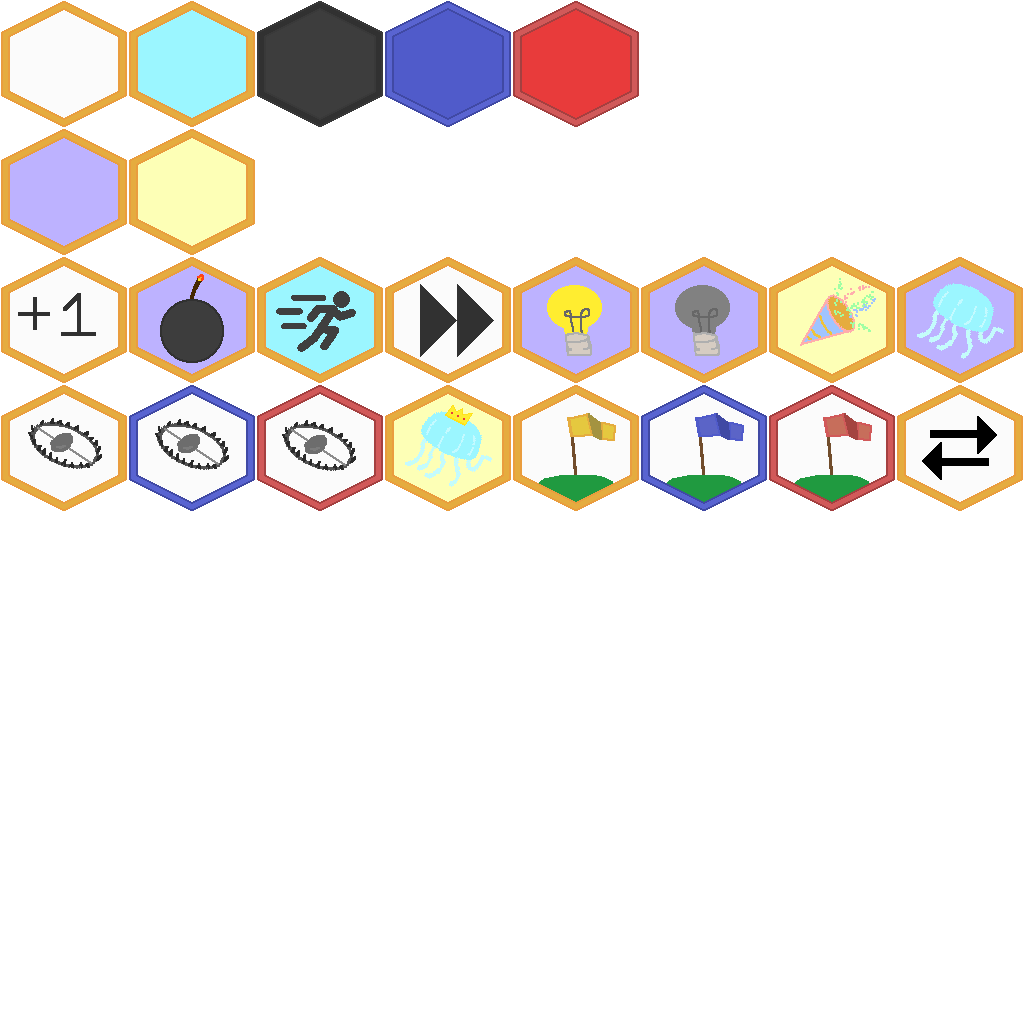
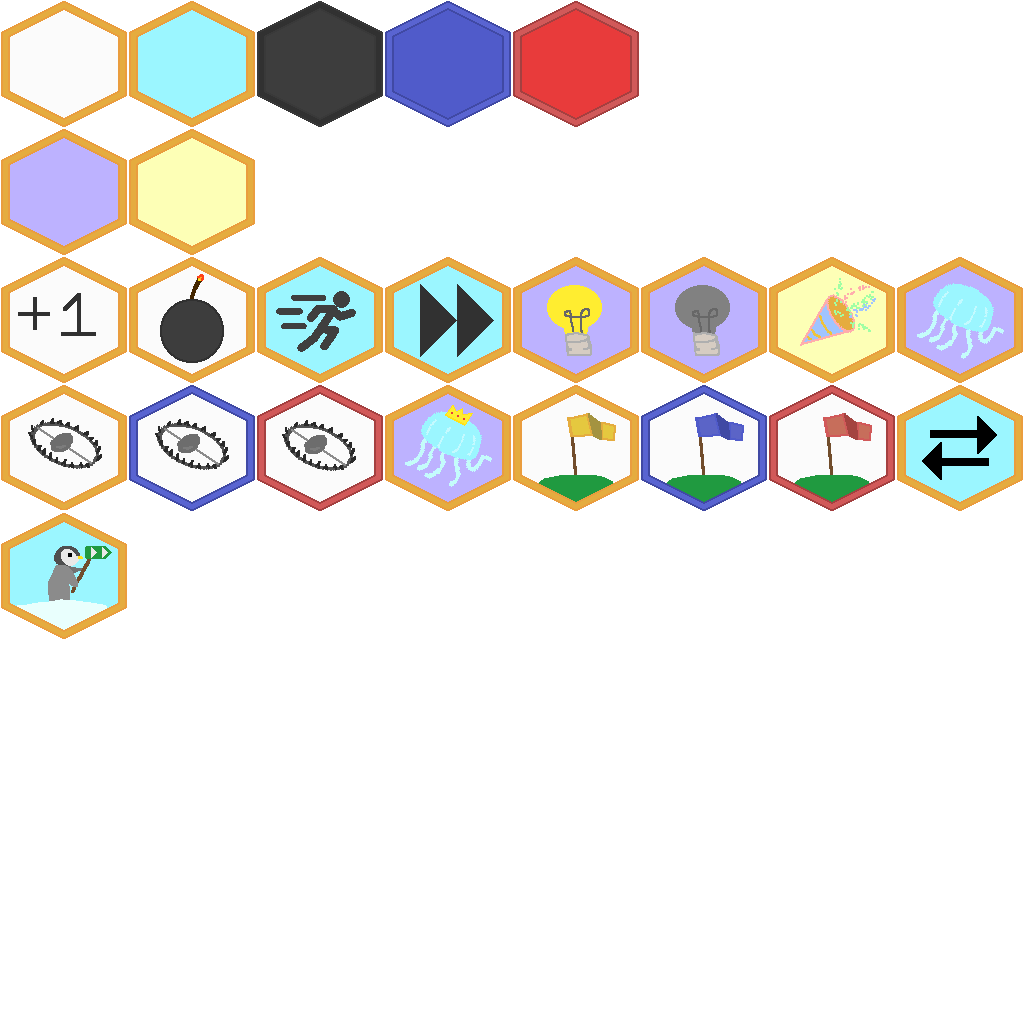
changed some sprite colours

diff --git a/Assets/Scripts/UI/Menu/HowToPlayMenu/HowToPlay.cs b/Assets/Scripts/UI/Menu/HowToPlayMenu/HowToPlay.cs
@@ -1,0 +1,18 @@
+using System.Collections;
+using System.Collections.Generic;
+using UnityEngine;
+
+public class HowToPlay : MonoBehaviour
+{
+    // Start is called before the first frame update
+    void Start()
+    {
+        
+    }
+
+    // Update is called once per frame
+    void Update()
+    {
+        
+    }
+}
